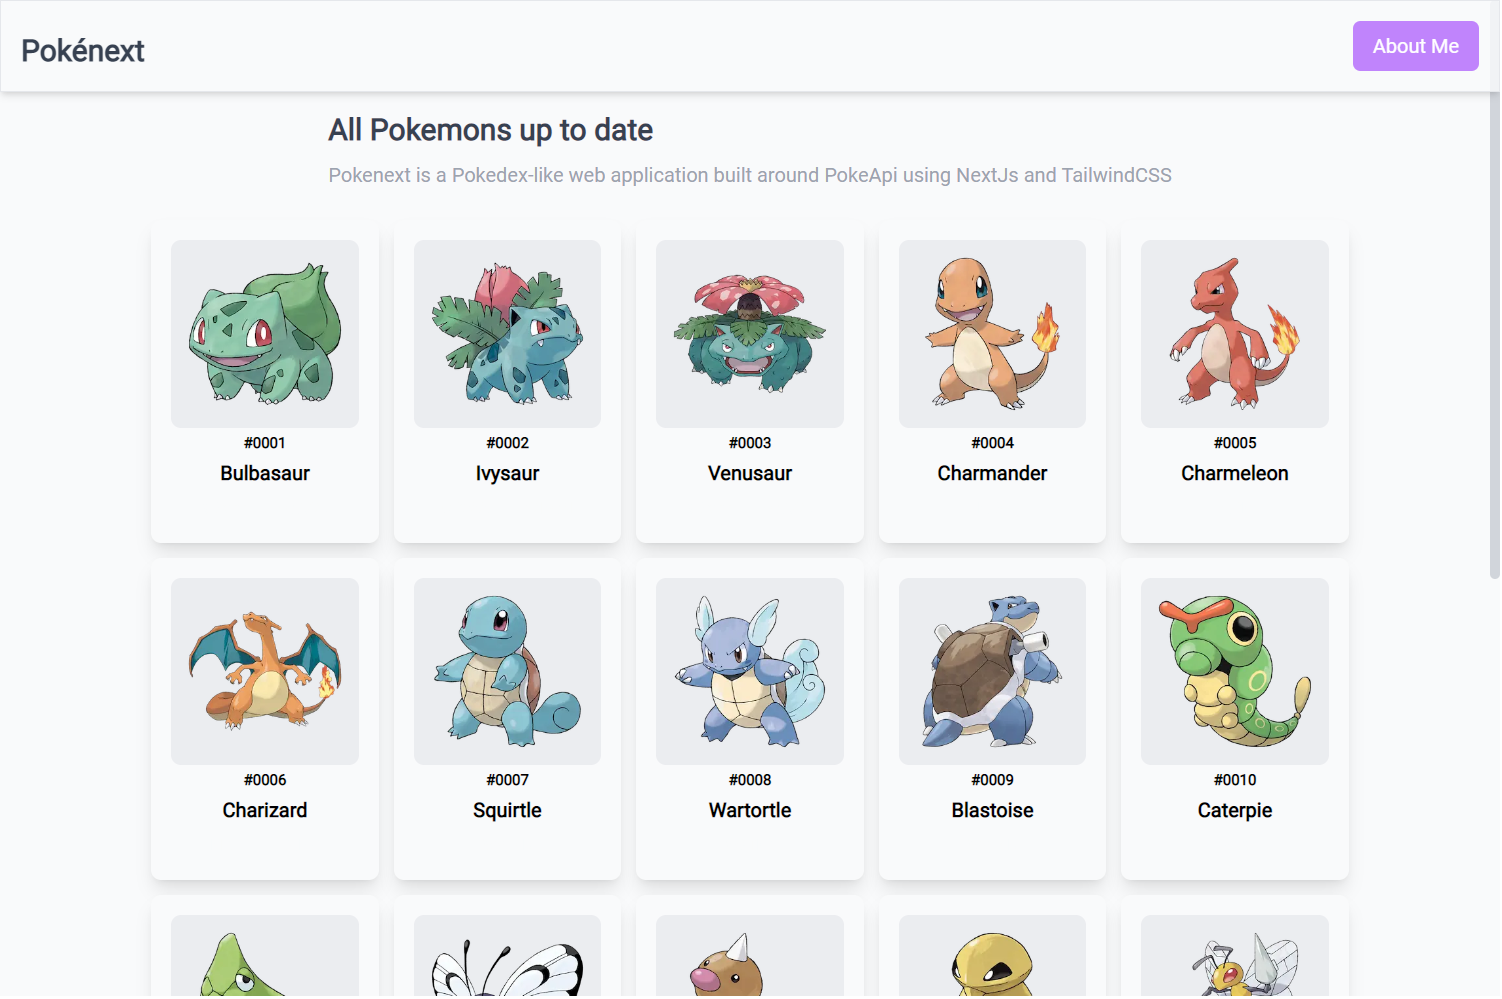
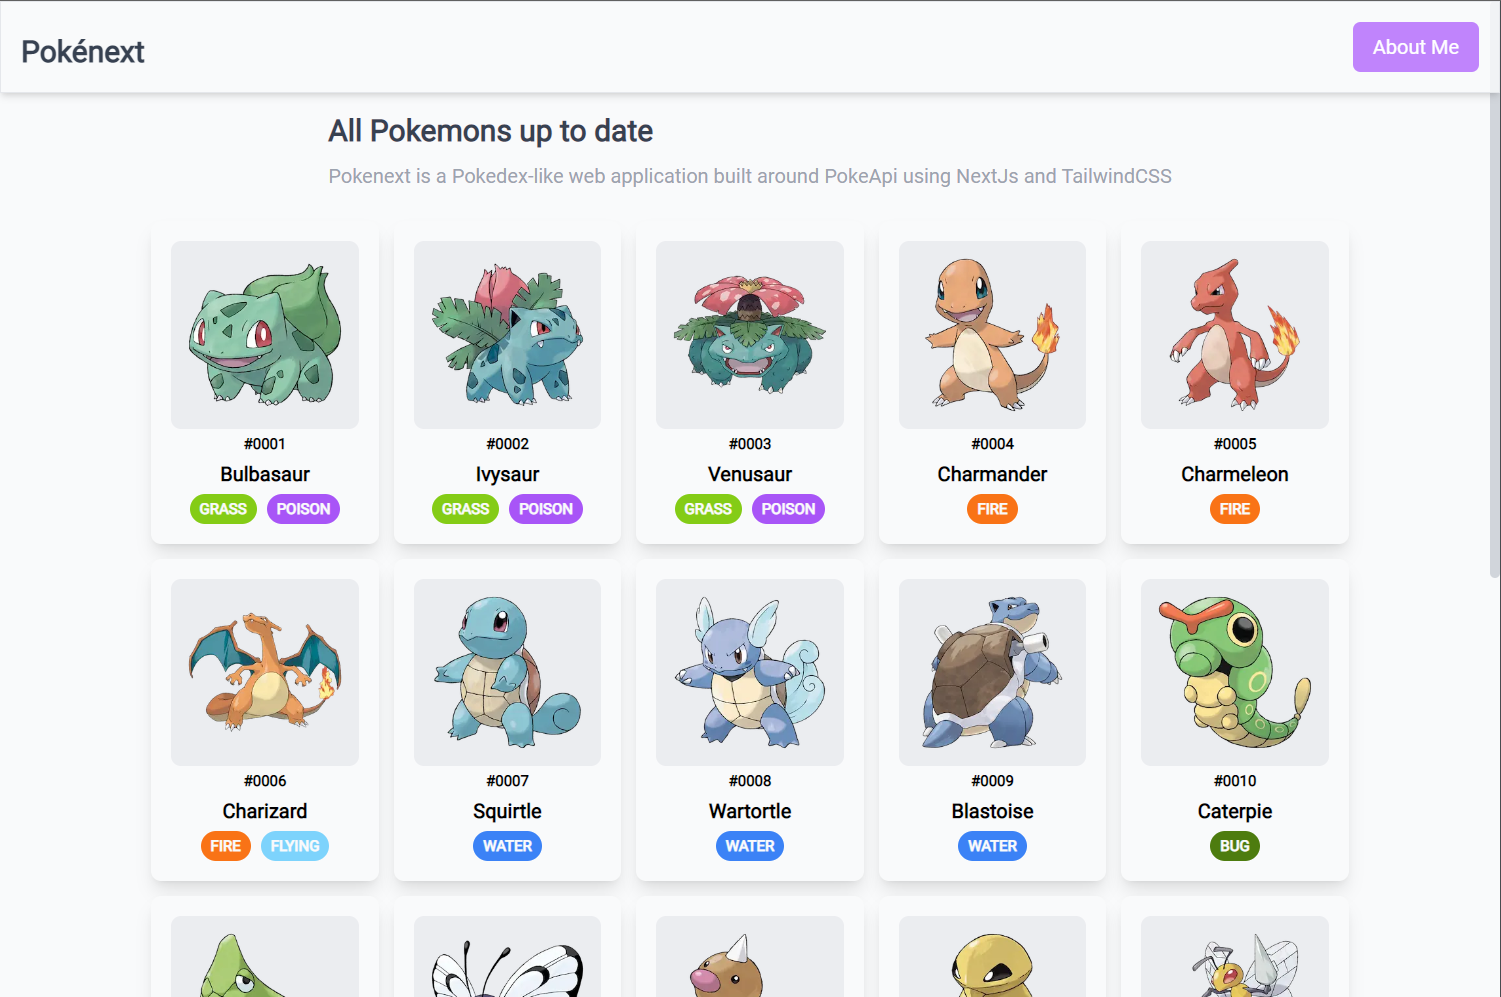
Add pokemon description, type and stats

diff --git a/src/pages/pokemon/[id].tsx b/src/pages/pokemon/[id].tsx
@@ -1,9 +1,24 @@
+import { capitalize, formatNumber, typeColor } from "@/components/Card";
 import Head from "next/head";
+import Image from "next/image";
+import {
+  Chart as ChartJS,
+  RadialLinearScale,
+  ArcElement,
+  Tooltip,
+  Legend,
+} from "chart.js";
+import { PolarArea } from "react-chartjs-2";
+
+ChartJS.register(RadialLinearScale, ArcElement, Tooltip, Legend);
 
 export const getServerSideProps = async ({ params }: any) => {
-  const resp = await fetch(`https://pokeapi.co/api/v2/pokemon/${params.id}`);
+  const resp = await fetch(
+    `https://pokeapi.co/api/v2/pokemon-species/${params.id}`
+  );
+  const resp2 = await fetch(`https://pokeapi.co/api/v2/pokemon/${params.id}`);
 
-  if (!resp.ok) {
+  if (!resp.ok || !resp2.ok) {
     return {
       notFound: true,
     };
@@ -11,23 +26,122 @@ export const getServerSideProps = async ({ params }: any) => {
 
   return {
     props: {
-      pokemon: await resp.json(),
+      pokemonDesc: await resp.json(),
+      pokemon: await resp2.json(),
     },
   };
 };
 
-const Pokemon = ({ pokemon }: any) => {
-  const capitalize = (str: string) => {
-    return str.charAt(0).toUpperCase() + str.slice(1);
+const Pokemon = ({ pokemonDesc, pokemon }: any) => {
+  function removeEscapeCharacters(str: string) {
+    return str.replace(/[\n\f\t]/g, " ");
+  }
+
+  function getFirstEnglishFlavorText(
+    array: { flavor_text: string; language: { name: string } }[]
+  ): string | null {
+    const englishFlavorText = array.find((obj) => obj.language.name === "en");
+    return englishFlavorText ? englishFlavorText.flavor_text : null;
+  }
+
+  const baseStats = pokemon.stats.map(
+    (stat: { base_stat: number }) => stat.base_stat
+  );
+
+  const options = {
+    responsive: true,
+    plugins: {
+      legend: {
+        display: false,
+      },
+    },
+    scales: {
+      r: {
+        pointLabels: {
+          display: true,
+          centerPointLabels: true,
+          font: {
+            size: 11,
+          },
+        },
+        max: 255,
+      },
+    },
+  };
+
+  const data = {
+    labels: ["HP", "Attack", "Defense", "S Attack", "S Defense", "Defense"],
+    datasets: [
+      {
+        data: baseStats,
+        backgroundColor: [
+          "rgba(255, 99, 132, 0.5)",
+          "rgba(54, 162, 235, 0.5)",
+          "rgba(255, 206, 86, 0.5)",
+          "rgba(75, 192, 192, 0.5)",
+          "rgba(153, 102, 255, 0.5)",
+          "rgba(255, 159, 64, 0.5)",
+        ],
+      },
+    ],
   };
 
   return (
     <>
       <Head>
-        <title>{capitalize(pokemon.name)} | Pokénext</title>
+        <title>{capitalize(pokemonDesc.name)} | Pokénext</title>
       </Head>
-      <main className="w-screen h-screen bg-slate-200">
-        <h1>{capitalize(pokemon.name)}</h1>
+      <main className="w-full pt-[70px] h-screen  scrollbar-thumb-gray-300 scrollbar-thumb-rounded-full scrollbar-thin overflow-hidden">
+        <section className="flex flex-col items-center gap-8">
+          <div className="flex items-center justify-center p-3">
+            <span className="text-2xl font-semibold text-gray-900">
+              {capitalize(pokemonDesc.name)}
+            </span>
+            <span className="text-2xl text-gray-400">
+              &nbsp;#{formatNumber(pokemonDesc.id, 4)}
+            </span>
+          </div>
+          <div className="flex flex-col gap-5 md:flex-row">
+            <Image
+              className="transition-all bg-gray-200/70 rounded-xl hover:scale-105 max-h-[350px] max-w-[350px]"
+              priority
+              src={`https://raw.githubusercontent.com/PokeAPI/sprites/master/sprites/pokemon/other/official-artwork/${pokemonDesc.id}.png`}
+              alt={pokemonDesc.name}
+              width={350}
+              height={350}
+            />
+            <div className="min-h-[350px] w-[350px] gap-3 flex flex-col">
+              <span className="flex flex-col items-center">
+                {pokemonDesc.flavor_text_entries.length !== 0
+                  ? removeEscapeCharacters(
+                      getFirstEnglishFlavorText(
+                        pokemonDesc.flavor_text_entries
+                      ) as string
+                    )
+                  : "No description available"}
+              </span>
+              <h1 className="text-lg">Type</h1>
+              <div className="flex gap-2">
+                {pokemon.types.map(({ type }: any) => {
+                  const name: keyof typeof typeColor = type.name.toString();
+
+                  return (
+                    <span
+                      className={` ${typeColor[name]} rounded-full px-2 py-1 text-gray-50 text-xs font-semibold`}
+                      key={type.name}
+                    >
+                      {type.name.toString().toUpperCase()}
+                    </span>
+                  );
+                })}
+              </div>
+            </div>
+          </div>
+          <div className="flex flex-col w-[500px] items-center">
+            <h1 className="text-lg">Base Stats:</h1>
+            <PolarArea options={options} data={data} />
+          </div>
+        </section>
       </main>
     </>
   );

diff --git a/src/pages/index.tsx b/src/pages/index.tsx
@@ -32,9 +32,36 @@ export default function Home() {
             All Pokemons up to date
           </h1>
           <p className="mt-2 text-base text-gray-400">
-            Pokenext is a Pokedex-like web application built around PokeApi
-            using NextJs and TailwindCSS
+            Pokenext is a Pokedex-like web application built around &nbsp;
+            <a
+              href="https://pokeapi.co/"
+              target="_blank"
+              rel="noopener noreferrer"
+              className="font-medium text-blue-600 dark:text-blue-500 hover:underline"
+            >
+              PokeApi
+            </a>
+            &nbsp; using &nbsp;
+            <a
+              href="https://nextjs.org/"
+              target="_blank"
+              rel="noopener noreferrer"
+              className="font-medium text-blue-600 dark:text-blue-500 hover:underline"
+            >
+              NextJs
+            </a>
+            &nbsp; and &nbsp;
+            <a
+              href="https://tailwindcss.com/"
+              target="_blank"
+              rel="noopener noreferrer"
+              className="font-medium text-blue-600 dark:text-blue-500 hover:underline"
+            >
+              TailwindCSS
+            </a>
+            &nbsp;
           </p>
+          
         </div>
         {pokemons.length !== 0 && (
           <section className="grid lg:grid-cols-5 md:grid-cols-4 sm:grid-cols-3 grid-cols-2 gap-3 min-h-[calc(100vh-73px)] p-4 ">

diff --git a/src/components/Card.tsx b/src/components/Card.tsx
@@ -21,6 +21,18 @@ export const typeColor = {
   ghost: "bg-purple-800",
 };
 
+export const capitalize = (str: string) => {
+  return str.charAt(0).toUpperCase() + str.slice(1);
+};
+
+export const formatNumber = (num: number, size: number) => {
+  let formatted = num.toString();
+  while (formatted.length < size) {
+    formatted = "0" + formatted;
+  }
+  return formatted;
+};
+
 const Card = ({ name }: { name: string }) => {
   const [pokemon, setPokemon] = useState<any>({});
 
@@ -33,18 +45,6 @@ const Card = ({ name }: { name: string }) => {
     };
     getPokemon();
   }, [name]);
-
-  const capitalize = (str: string) => {
-    return str.charAt(0).toUpperCase() + str.slice(1);
-  };
-
-  const formatNumber = (num: number, size: number) => {
-    let formatted = num.toString();
-    while (formatted.length < size) {
-      formatted = "0" + formatted;
-    }
-    return formatted;
-  };
 
   return Object.keys(pokemon).length !== 0 ? (
     <Link

diff --git a/src/pages/_document.tsx b/src/pages/_document.tsx
@@ -24,7 +24,7 @@ export default function Document() {
         <meta name="twitter:image" content={data.imgUrl} />
       </Head>
       <body>
-        <header className="fixed z-10 flex items-end justify-between w-full p-4 border shadow-md bg-gray-50/80 border-b-gray-200">
+        <header className="fixed top-0 z-10 flex items-end justify-between w-full p-4 border shadow-md bg-gray-50/80 border-b-gray-200">
           <Link href={"/"}>
             <h1 className="text-2xl font-semibold text-gray-700">Pokénext</h1>
           </Link>
